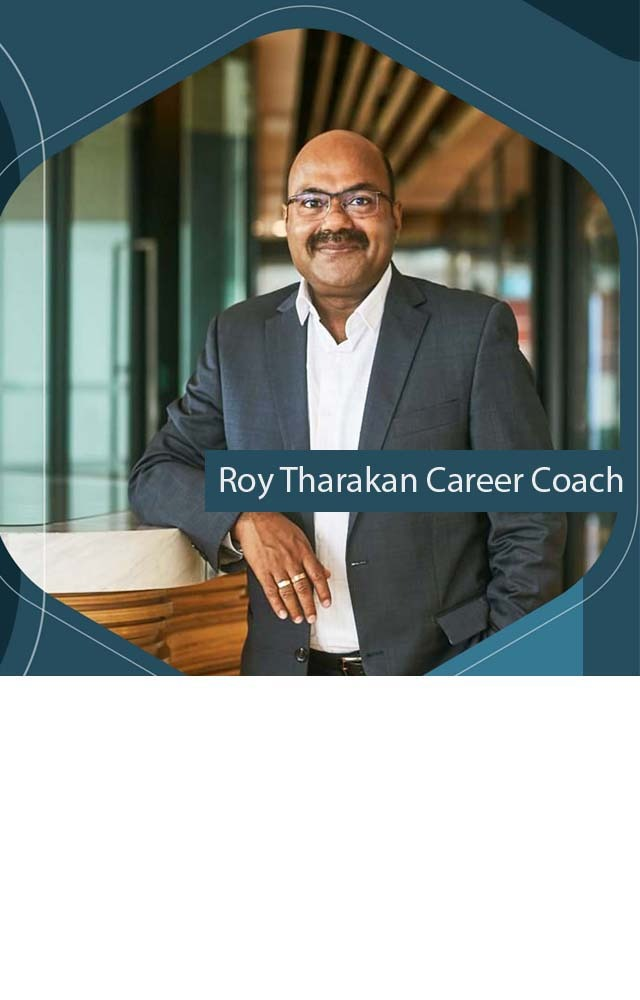
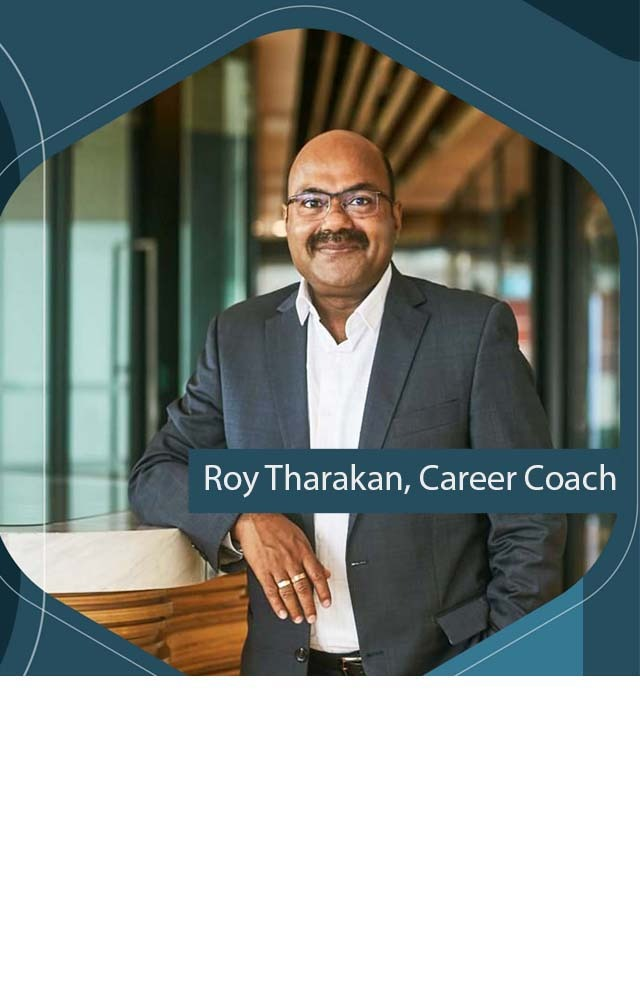
final

Changed region(s): [[0.2812, 0.434, 0.9688, 0.527]]

diff --git a/about.html b/about.html
@@ -124,16 +124,23 @@
                            <p>Roy Tharakan began his career as a driven business leader in the B2B food ingredients industry, where he quickly built a reputation for delivering breakthrough results in business growth and organizational development. With a career spanning nearly three decades, he was no stranger to success. Yet, amidst his professional achievements, there was always a deeper passion that called to him—the desire to help others unlock their full potential.</p>
 
                            
-                        <p>In 2022, Roy decided to act on that calling. Leaving behind a commercial leadership path, he embraced a new role as the Director of a Talent Academy. Here, he could finally merge his business acumen with his passion for coaching, impacting lives on a global scale. Over the past two years, he has guided more than 3,000 commercial professionals to not only achieve their goals but to redefine them, shifting mindsets and building skillsets that empower individuals to thrive in dynamic, high-stakes environments.</p>   
+                        
+                        <p >In 2022, Roy decided to act on that calling. Leaving behind a commercial leadership path, he embraced a new role as the Director of a Talent Academy. Here, he could finally merge his business acumen with his passion for coaching, impacting lives on a global scale. Over the past two years, he has guided more than 3,000 commercial professionals to not only achieve their goals but to redefine them, shifting mindsets and building skillsets that empower individuals to thrive in dynamic, high-stakes environments.</p>  
+                        
                           <p>But Roy's journey is more than just numbers and milestones. His ability to connect with people across cultures and geographies has been shaped by his own life experiences. Having lived outside of his home country for over 18 years and traveled to more than 40 countries, Roy has developed a deep appreciation for diversity. He has managed teams representing over 25 nationalities and knows firsthand how respect and inclusivity create the foundation for true innovation and growth.</p>
 <p>These experiences have made him more than just a coach; they’ve made him a trusted guide for leaders navigating complex global landscapes. His approach goes beyond surface-level coaching, diving deep into what he believes is the core of sustainable transformation: a mindset shift. “True success starts with how you see yourself,” he often says. “When that changes, everything else falls into place—from your actions to your impact on those around you.”</p>
 
-                        <a href="contact-two.html">Contact Us</a> 
+                        <!-- <a href="contact-two.html">Contact Us</a>  -->
                         </div>
                      </div>
                      <div class="col-lg-6">
-                        <div class="about-video-img"> <img src="images/gallery/PHOTO-2024-10-22-17-50-44.jpg" alt=""> </div>
+                        <div class="about-video-img"> <img src="images/gallery/gall3.jpeg" alt=""> </div>
+                        <div class="about-video-img"> <img src="images/gallery/5257.jpg" alt=""> </div>
+
+
+
                      </div>
+
                   </div>
                </div>
             </div>

diff --git a/css/custom.css b/css/custom.css
@@ -548,7 +548,7 @@ section#home-slider img {
 	font-family: 'droidSans';
 }
 .home-about {
-	background: url(../images/aboutbg.jpg) no-repeat #fff;
+	background: url(../images/aboutbg.jpg) no-repeat #bddeed;
 }
 .about-pic {
 	position: relative;
@@ -572,10 +572,18 @@ section#home-slider img {
 	box-shadow: 0 10px 40px rgba(0,0,0,.12);
 	z-index: 1;
 }
+.about-txt{
+	text-align: justify;
+}
+
+
+
 .about-txt h2 {
 	position: relative;
-	line-height: 52px;
+	line-height: 42px;
 	margin-bottom: 40px;
+	text-align:left;
+
 }
 .about-txt h2 span {
 	display: block;
@@ -5826,6 +5834,7 @@ About Us Page
 	z-index: -7;
 }
 .about-text {
+	text-align: justify;
 	margin-top: 35px;
 }
 .about-text h5 {
@@ -5841,6 +5850,7 @@ About Us Page
 .about-text p strong {
 	font-size: 20px;
 	font-weight: 500;
+	
 }
 .about-text a {
 	background: #357892 !important;
@@ -6835,7 +6845,7 @@ section.wf100.p80.fcampaigns {
     overflow: hidden;
 }
 .hero-content p {
-	font-size: 1rem;
+	font-size: 1.2rem;
 	color: white; /* Black text for small screens (xs) */
 }
 .hero-content {
@@ -6880,6 +6890,7 @@ section.wf100.p80.fcampaigns {
 	}
 
 	.hero-content p {
+		font-size: 1rem;
         color: #000; /* Black text for small screens (xs) */
     }
 	
